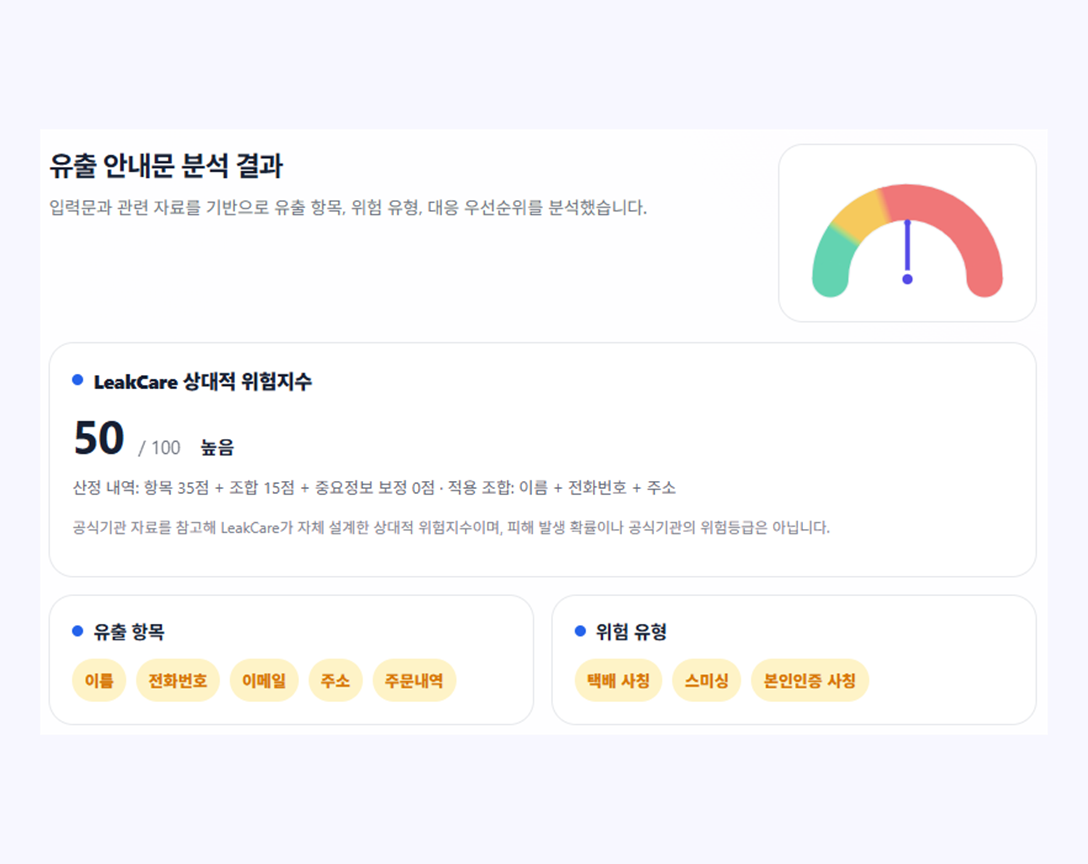
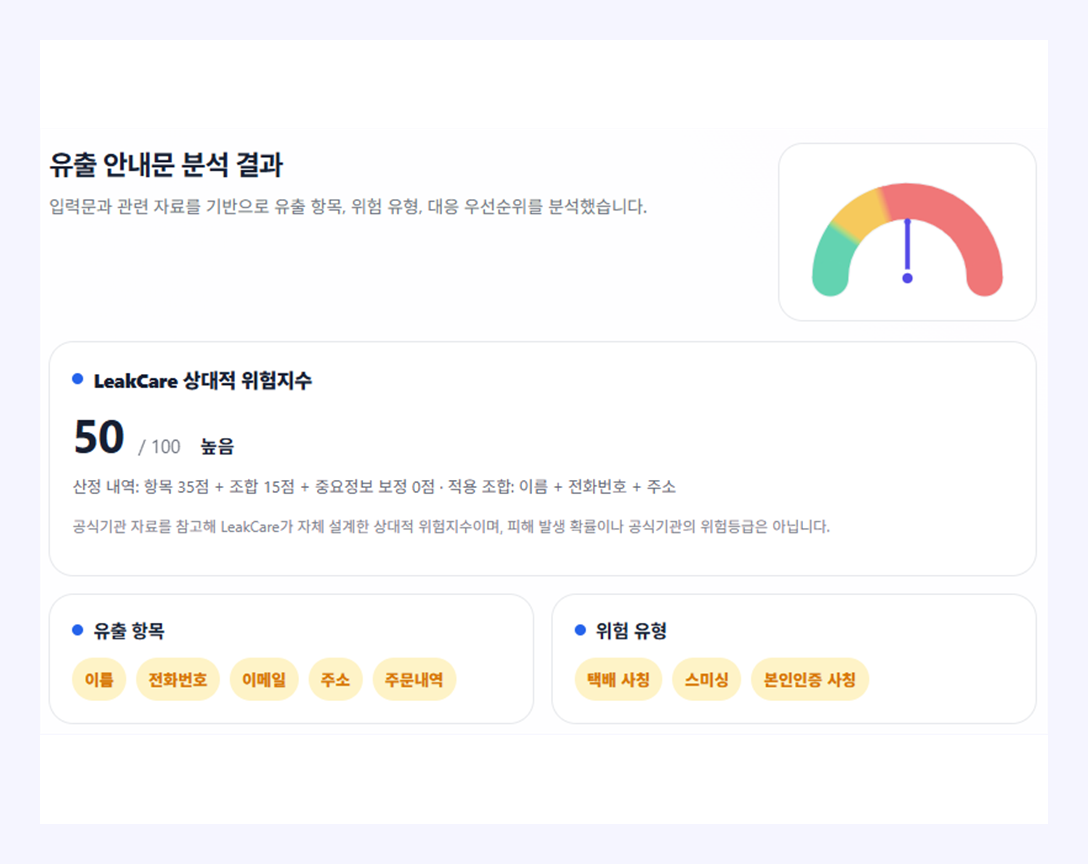
이미지 및 ui 개선

diff --git a/src/app/leak/page.tsx b/src/app/leak/page.tsx
@@ -1080,6 +1080,8 @@ export default function LeakPage() {
                             / 100
                           </span>
                           <strong
+                            className="result-risk-level"
+                            data-risk-level={result.riskLevel}
                             style={{
                               marginLeft: "4px",
                               fontSize: "15px",
@@ -1310,23 +1312,14 @@ export default function LeakPage() {
                         >
                           공유하기
                         </button>
-                      </div>
-                    </article>
-
-                    <article className="info-card full">
-                      <h4>
-                        <span className="icon-dot"></span> 다음 작업
-                      </h4>
-
-                      <div className="action-buttons">
                         <button
-                        type="button"
+                          type="button"
                           className="small-btn"
                           onClick={saveAsPdf}
                         >
                           PDF 저장
                         </button>
-                     </div>
+                      </div>
                     </article>
                     <ReportSummaryPanel analysisResult={result} />
                   </div>

diff --git a/src/app/globals.css b/src/app/globals.css
@@ -1997,6 +1997,18 @@ textarea:focus {
   font-weight: 700;
 }
 
+.result-risk-level[data-risk-level="높음"] {
+  color: #dc2626;
+}
+
+.result-risk-level[data-risk-level="보통"] {
+  color: #d97706;
+}
+
+.result-risk-level[data-risk-level="낮음"] {
+  color: #059669;
+}
+
 .mypage-workspace .check-list > li::after {
   content: none;
 }
